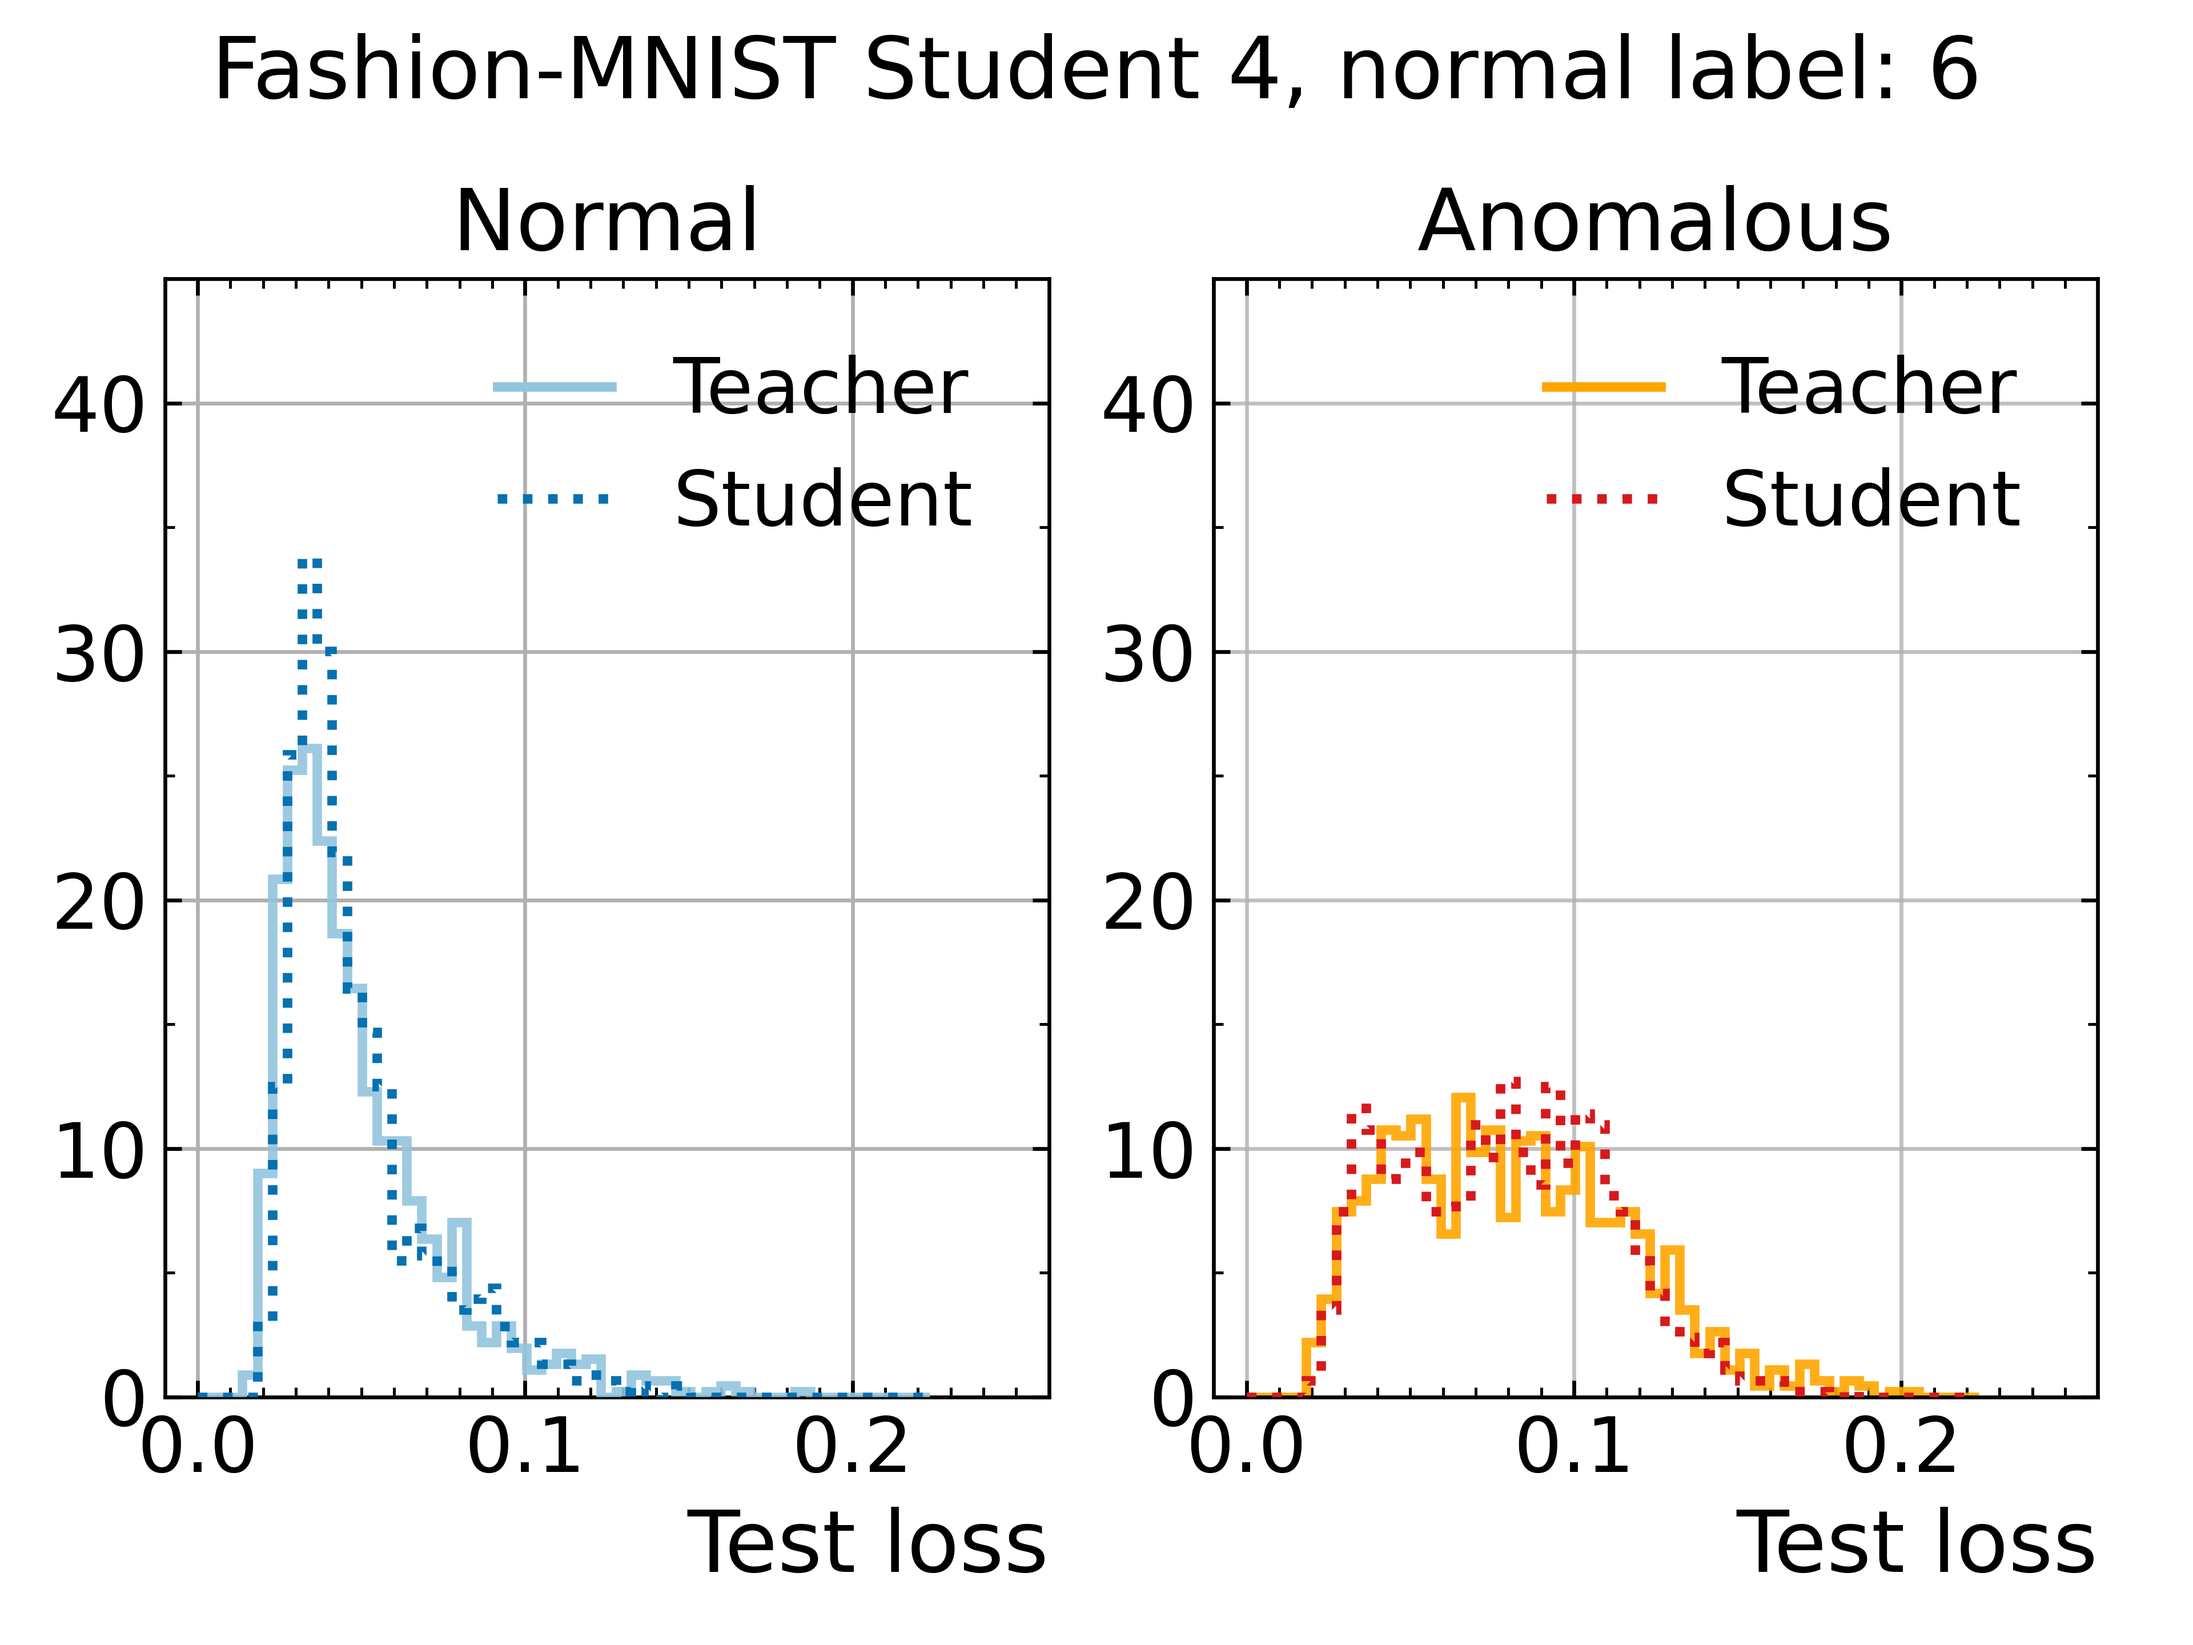
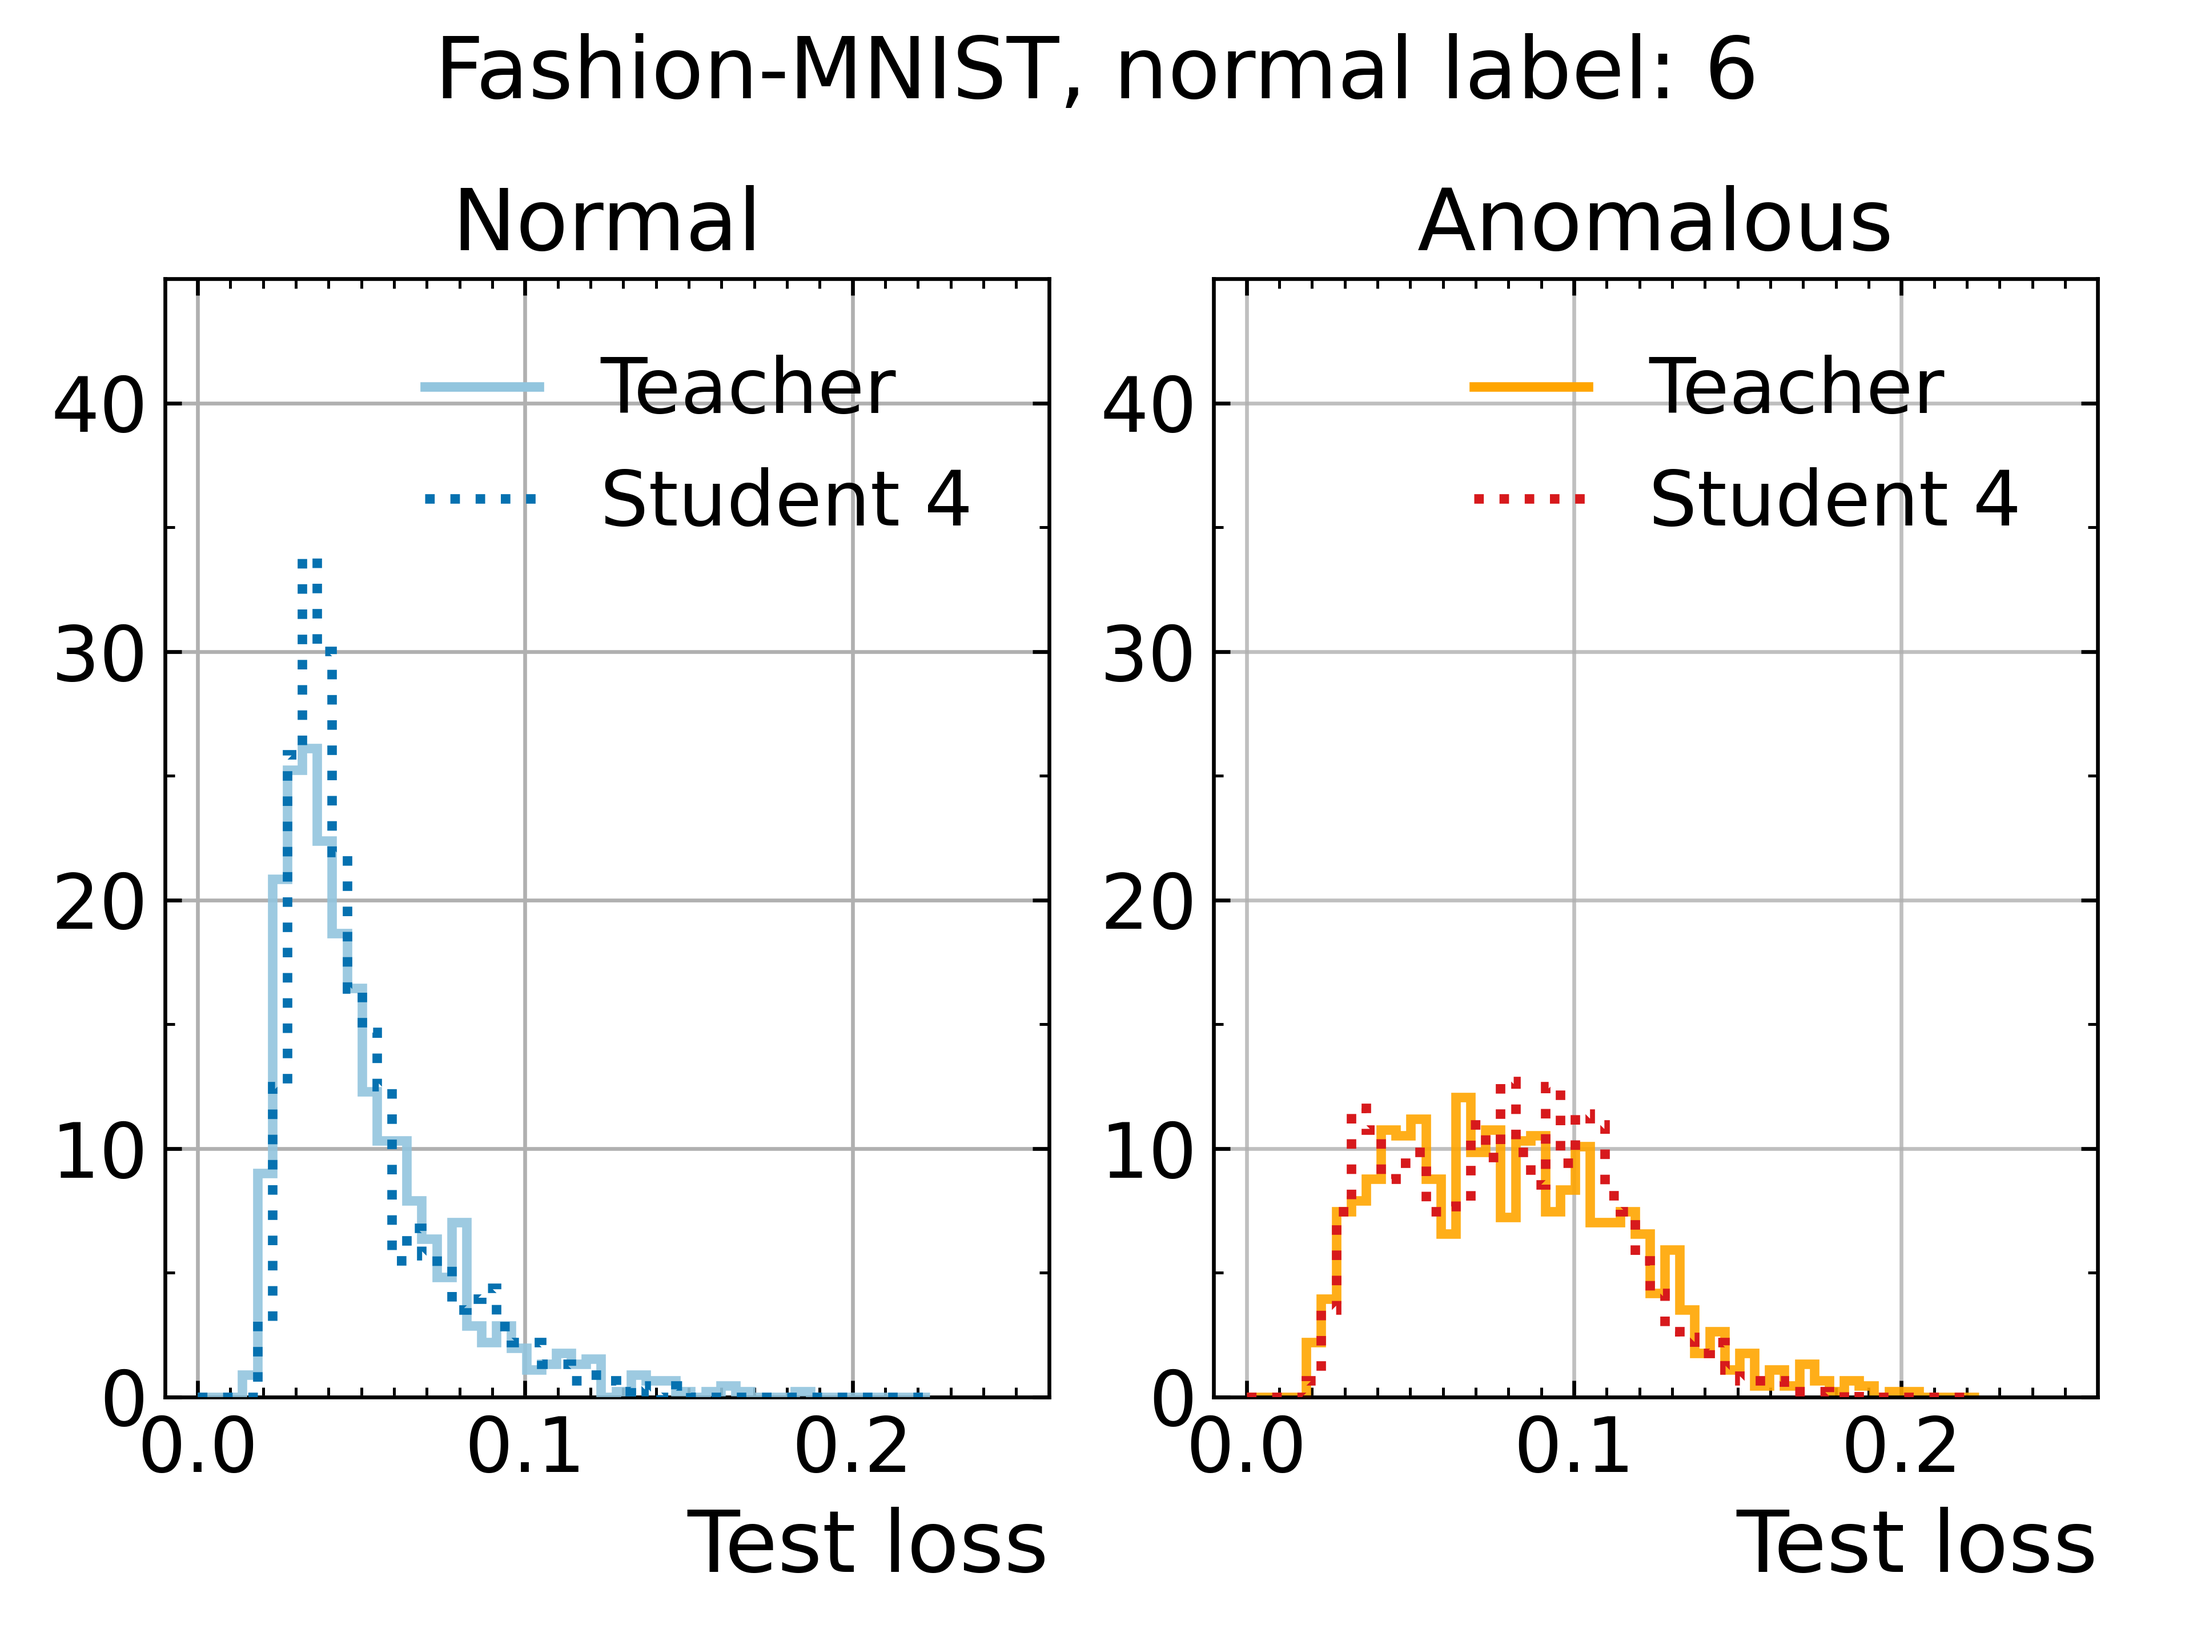
update plots

diff --git a/FASHION_MNIST/4_test_student.py b/FASHION_MNIST/4_test_student.py
@@ -95,7 +95,7 @@ if 'log' in student_name:
 fig = plt.figure()
 ax = fig.add_subplot(121)
 ax.hist(np.array(teacher_norm),bins = bins, alpha=0.9, density=True, color = '#92c5de', range=None,  histtype='step', linewidth=2, cumulative=False, bottom=None, align='mid',  zorder = 3, label = 'Teacher')
-ax.hist(np.array(student_norm),bins = bins, alpha=1, density=True, color = '#0571b0', range=None,  histtype='step', linewidth=2,linestyle = ':',  cumulative=False, bottom=None, align='mid',  zorder = 3, label = 'Student')
+ax.hist(np.array(student_norm),bins = bins, alpha=1, density=True, color = '#0571b0', range=None,  histtype='step', linewidth=2,linestyle = ':',  cumulative=False, bottom=None, align='mid',  zorder = 3, label = 'Student 4')
 plt.grid(zorder = 1)
 plt.xlabel('Test loss', loc = 'right', fontsize = fs)
 plt.title('Normal' , fontsize = fs)
@@ -110,7 +110,7 @@ custom_lines = [plt.Line2D([0], [0], color='#92c5de', linewidth=2),
 plt.legend(custom_lines,labels,frameon=False, fontsize =  fs-2, handlelength=  1.5, borderpad= 0.5)
 ax = fig.add_subplot(122)
 ax.hist(np.array(teacher_anom), bins = bins, alpha=0.9, density=True, color = 'orange', range=None, histtype='step', linewidth=2, cumulative=False, bottom=None, align='mid',  zorder = 2, label='Teacher')
-ax.hist(np.array(student_anom),bins = bins, alpha=1, density=True, color = '#d7191c', range=None,  histtype='step', linewidth=2,linestyle = ':',  cumulative=False, bottom=None, align='mid',  zorder = 3, label = 'Student')
+ax.hist(np.array(student_anom),bins = bins, alpha=1, density=True, color = '#d7191c', range=None,  histtype='step', linewidth=2,linestyle = ':',  cumulative=False, bottom=None, align='mid',  zorder = 3, label = 'Student 4')
 plt.grid(zorder = 1, alpha = 0.8)
 handles, labels = ax.get_legend_handles_labels()
 custom_lines = [plt.Line2D([0], [0], color='orange', linewidth=2),
@@ -123,7 +123,7 @@ ax.set_ylim(0,45)
 ax.xaxis.set_minor_locator(MultipleLocator(0.01))
 ax.yaxis.set_minor_locator(MultipleLocator(5))
 ax.tick_params(axis="both", which = 'both', direction="in",top=True, right=True, labelsize = fs-2)
-plt.suptitle('Fashion-MNIST Student 4, normal label: %s' % digit, fontsize = fs)
+plt.suptitle('Fashion-MNIST, normal label: %s' % digit, fontsize = fs)
 plt.tight_layout(rect=[0, 0, 0.98, 1])
 plt.savefig('FMNIST_distr.png', dpi = 600)
 plt.show()
@@ -149,11 +149,11 @@ student_AUC_PR = np.round(sklearn.metrics.auc(student_recall, student_precision)
 
 fig, ax = plt.subplots()
 plt.plot(teacher_fpr, teacher_tpr, label = 'Teacher (AUC = %s)' % teacher_AUC, zorder = 3)
-plt.plot(student_fpr, student_tpr, linestyle = '--', label = 'Student (AUC = %s)' % student_AUC, zorder = 3)
+plt.plot(student_fpr, student_tpr, linestyle = '--', label = 'Student 4 (AUC = %s)' % student_AUC, zorder = 3)
 plt.plot([0,0.2,0.5,0.7,1], [0,0.2,0.5,0.7,1], linestyle = '--', color = 'gray', zorder = 3)
 plt.legend(fontsize =  fs-2, frameon=False, handlelength= 1.5, borderpad= 0.5)
 plt.grid(zorder = 1, alpha = 0.8)
-plt.title('Fashion-MNIST Student 4, normal label: %s' % (digit), fontsize = fs)
+plt.title('Fashion-MNIST, normal label: %s' % (digit), fontsize = fs)
 plt.xlabel('False Positive Rate', loc = 'right', fontsize = fs)
 plt.ylabel('True Positive Rate', loc = 'top', fontsize = fs)
 ax.xaxis.set_minor_locator(MultipleLocator(0.1))
@@ -166,10 +166,10 @@ plt.show()
 
 fig, ax = plt.subplots()
 plt.plot(teacher_recall, teacher_precision, label = 'Teacher (AUC = %s)' % (teacher_AUC_PR), zorder = 4)
-plt.plot(student_recall, student_precision, linestyle = '--',label = 'Student (AUC = %s)' % ( student_AUC_PR), zorder = 4)
+plt.plot(student_recall, student_precision, linestyle = '--',label = 'Student 4 (AUC = %s)' % ( student_AUC_PR), zorder = 4)
 plt.legend(fontsize =  fs-2, frameon=False, handlelength= 1.5, borderpad= 0.5)
 plt.grid(zorder = 1, alpha = 0.8)
-plt.title('Fashion-MNIST Student 4, normal label: %s' % (digit), fontsize = fs)
+plt.title('Fashion-MNIST, normal label: %s' % (digit), fontsize = fs)
 plt.xlabel('Recall', loc = 'right', fontsize = fs)
 plt.ylabel('Precision', loc = 'top', fontsize = fs)
 ax.xaxis.set_minor_locator(MultipleLocator(0.1))

diff --git a/MNIST/4_test_student.py b/MNIST/4_test_student.py
@@ -95,7 +95,7 @@ if 'log' in student_name:
 fig = plt.figure()
 ax = fig.add_subplot(121)
 ax.hist(np.array(teacher_norm),bins = bins, alpha=0.9, density=True, color = '#92c5de', range=None,  histtype='step', linewidth=2, cumulative=False, bottom=None, align='mid',  zorder = 3, label = 'Teacher')
-ax.hist(np.array(student_norm),bins = bins, alpha=1, density=True, color = '#0571b0', range=None,  histtype='step', linewidth=2,linestyle = ':',  cumulative=False, bottom=None, align='mid',  zorder = 3, label = 'Student')
+ax.hist(np.array(student_norm),bins = bins, alpha=1, density=True, color = '#0571b0', range=None,  histtype='step', linewidth=2,linestyle = ':',  cumulative=False, bottom=None, align='mid',  zorder = 3, label = 'Student 4')
 plt.grid(zorder = 1)
 plt.xlabel('Test loss', loc = 'right', fontsize = fs)
 plt.title('Normal' , fontsize = fs)
@@ -110,7 +110,7 @@ custom_lines = [plt.Line2D([0], [0], color='#92c5de', linewidth=2),
 plt.legend(custom_lines,labels,frameon=False, fontsize = fs-2, handlelength=  1.5, borderpad= 0.5)
 ax = fig.add_subplot(122)
 ax.hist(np.array(teacher_anom), bins = bins, alpha=0.9, density=True, color = 'orange', range=None, histtype='step', linewidth=2, cumulative=False, bottom=None, align='mid',  zorder = 2, label='Teacher')
-ax.hist(np.array(student_anom),bins = bins, alpha=1, density=True, color = '#d7191c', range=None,  histtype='step', linewidth=2,linestyle = ':',  cumulative=False, bottom=None, align='mid',  zorder = 3, label = 'Student')
+ax.hist(np.array(student_anom),bins = bins, alpha=1, density=True, color = '#d7191c', range=None,  histtype='step', linewidth=2,linestyle = ':',  cumulative=False, bottom=None, align='mid',  zorder = 3, label = 'Student 4')
 plt.grid(zorder = 1, alpha = 0.8)
 handles, labels = ax.get_legend_handles_labels()
 custom_lines = [plt.Line2D([0], [0], color='orange', linewidth=2),
@@ -123,7 +123,7 @@ ax.set_ylim(0,65)
 ax.xaxis.set_minor_locator(MultipleLocator(0.01))
 ax.yaxis.set_minor_locator(MultipleLocator(5))
 ax.tick_params(axis="both", which = 'both', direction="in",top=True, right=True, labelsize = fs-2)
-plt.suptitle('MNIST Student 4, normal label: %s' % digit, fontsize = fs)
+plt.suptitle('MNIST, normal label: %s' % digit, fontsize = fs)
 plt.tight_layout(rect=[0, 0, 0.98, 1])
 plt.savefig('MNIST_distr.png', dpi = 600)
 plt.show()
@@ -149,11 +149,11 @@ student_AUC_PR = np.round(sklearn.metrics.auc(student_recall, student_precision)
 
 fig, ax = plt.subplots()
 plt.plot(teacher_fpr, teacher_tpr, label = 'Teacher (AUC = %s)' % teacher_AUC, zorder = 3)
-plt.plot(student_fpr, student_tpr, linestyle = '--', label = 'Student (AUC = %s)' % student_AUC, zorder = 3)
+plt.plot(student_fpr, student_tpr, linestyle = '--', label = 'Student 4 (AUC = %s)' % student_AUC, zorder = 3)
 plt.plot([0,0.2,0.5,0.7,1], [0,0.2,0.5,0.7,1], linestyle = '--', color = 'gray', zorder = 3)
 plt.legend(fontsize =  fs-2, frameon=False, handlelength= 1.5, borderpad= 0.5)
 plt.grid(zorder = 1, alpha = 0.8)
-plt.title('MNIST Student 4, normal label: %s' % (digit), fontsize = fs)
+plt.title('MNIST, normal label: %s' % (digit), fontsize = fs)
 plt.xlabel('False Positive Rate', loc = 'right', fontsize = fs)
 plt.ylabel('True Positive Rate', loc = 'top', fontsize = fs)
 ax.xaxis.set_minor_locator(MultipleLocator(0.1))
@@ -166,10 +166,10 @@ plt.show()
 
 fig, ax = plt.subplots()
 plt.plot(teacher_recall, teacher_precision, label = 'Teacher (AUC = %s)' % (teacher_AUC_PR), zorder = 4)
-plt.plot(student_recall, student_precision, linestyle = '--',label = 'Student (AUC = %s)' % ( student_AUC_PR), zorder = 4)
+plt.plot(student_recall, student_precision, linestyle = '--',label = 'Student 4 (AUC = %s)' % ( student_AUC_PR), zorder = 4)
 plt.legend(fontsize =  fs-2, frameon=False, handlelength= 1.5, borderpad= 0.5)
 plt.grid(zorder = 1, alpha = 0.8)
-plt.title('MNIST Student 4, normal label: %s' % (digit), fontsize = fs)
+plt.title('MNIST, normal label: %s' % (digit), fontsize = fs)
 plt.xlabel('Recall', loc = 'right', fontsize = fs)
 plt.ylabel('Precision', loc = 'top', fontsize = fs)
 ax.xaxis.set_minor_locator(MultipleLocator(0.1))
